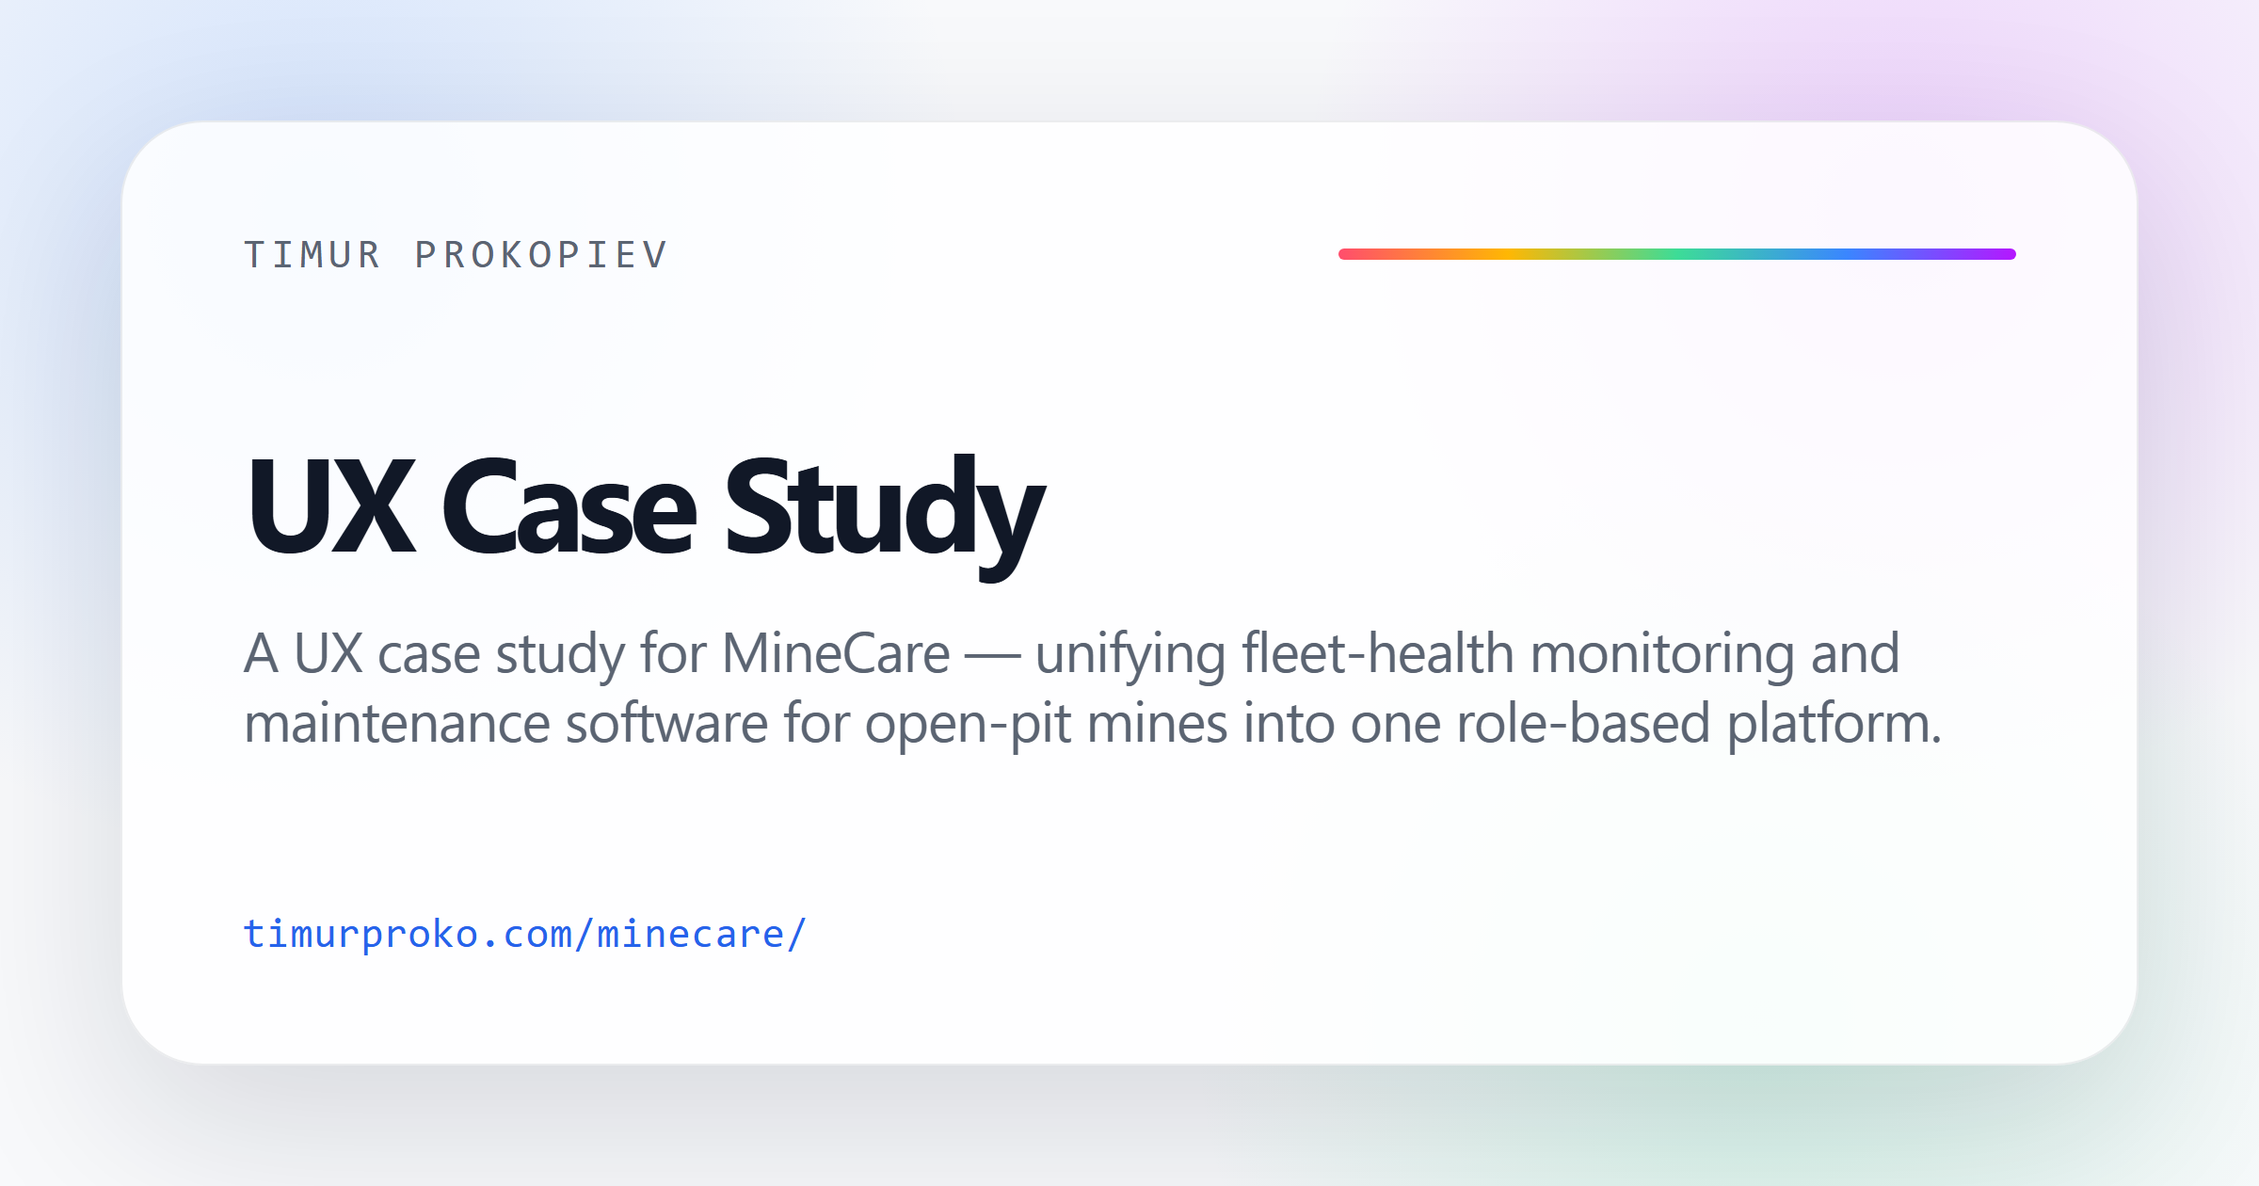
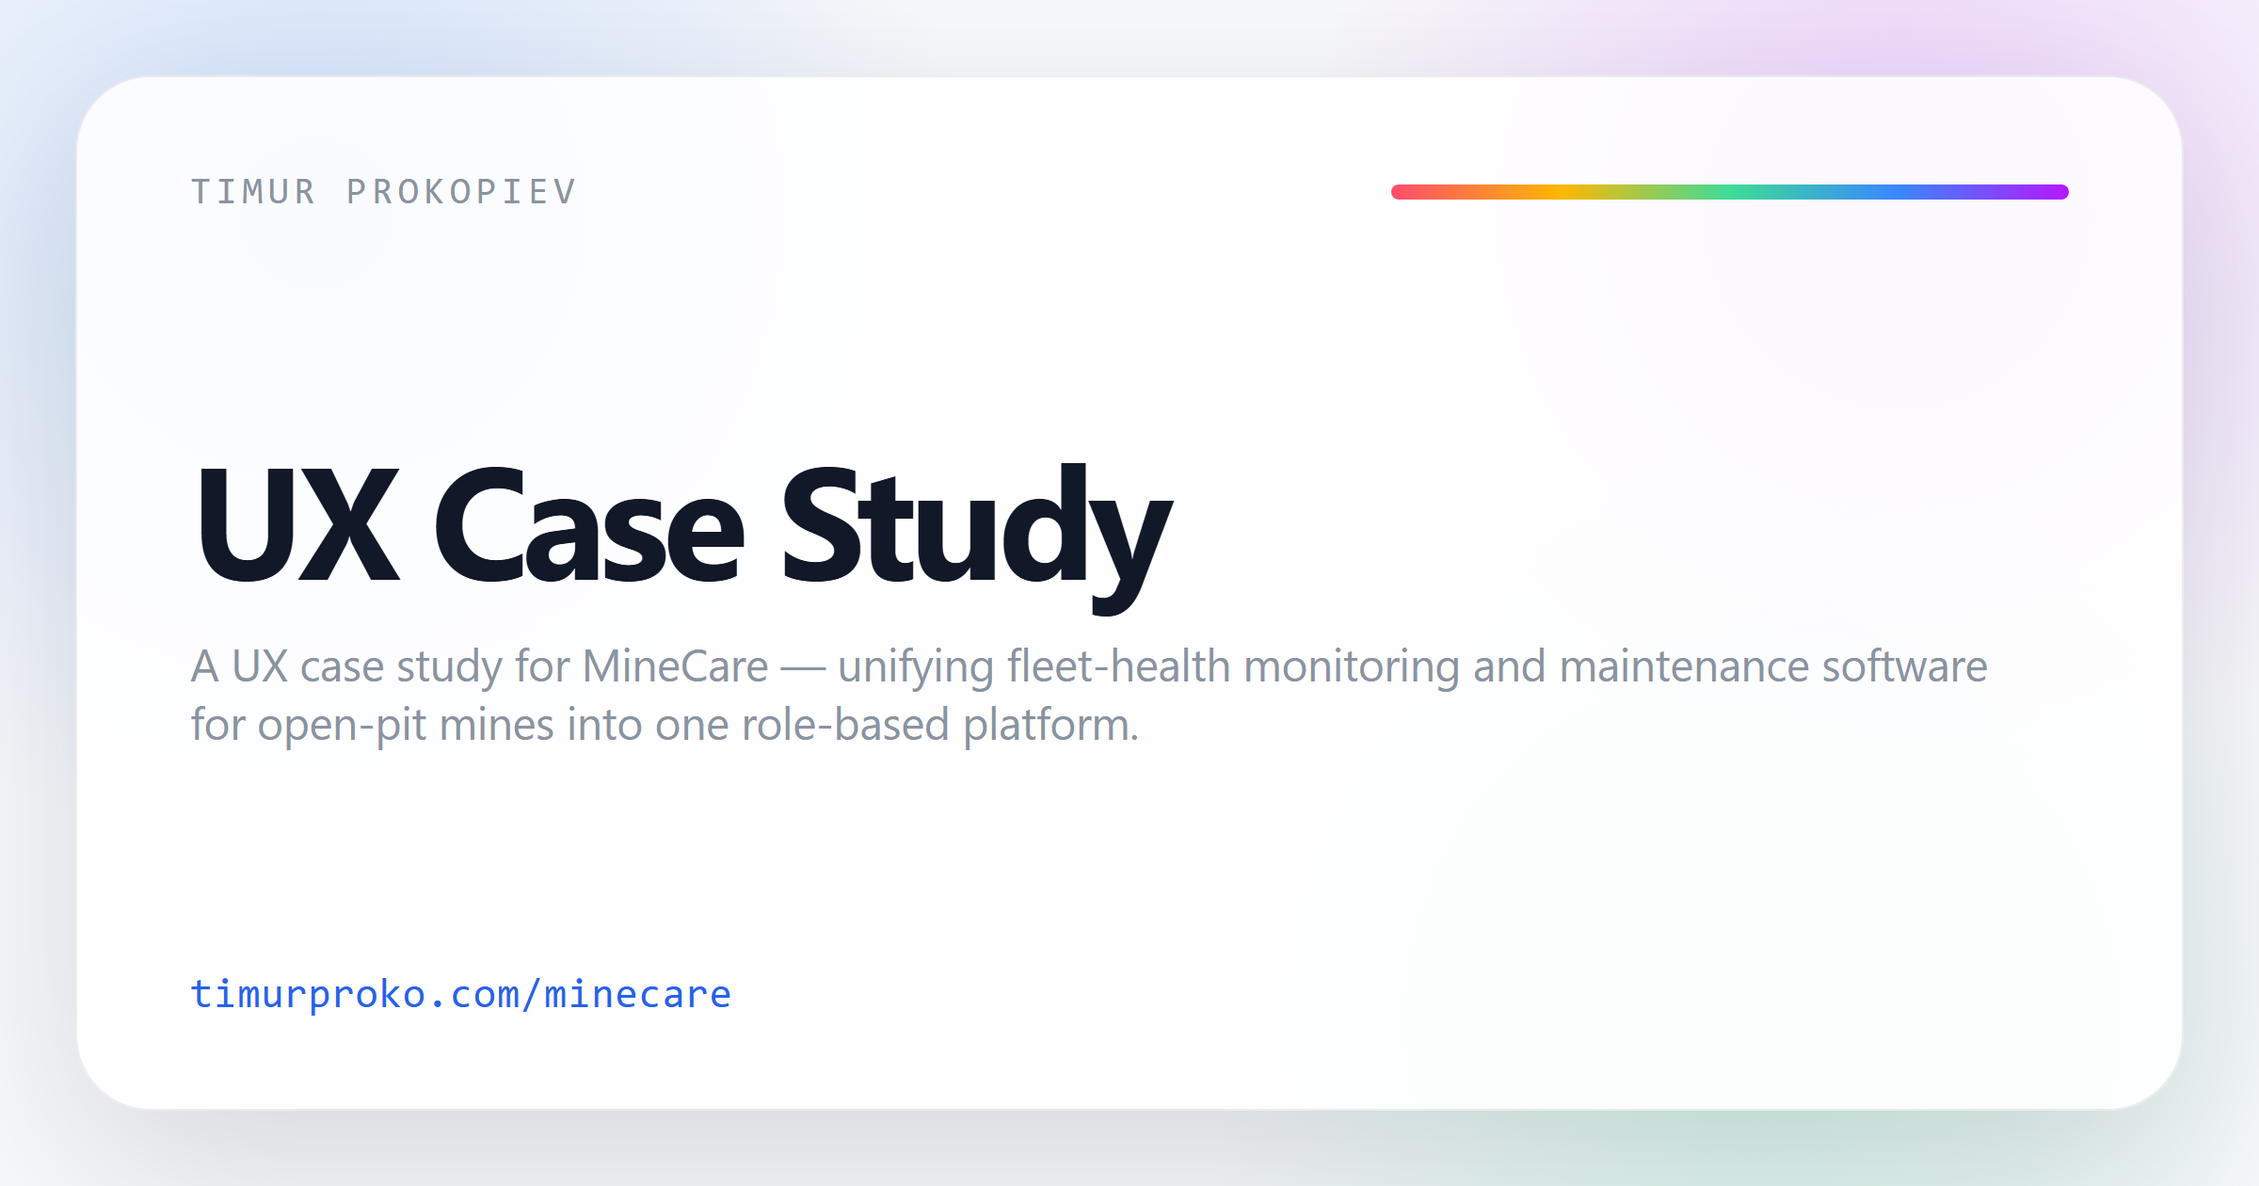
Make social preview titles legible as LinkedIn thumbnails
Enlarge the title, split "Name – Role" titles into a name line over a
smaller role line, and quiet the label, description, and URL so the card
still reads at LinkedIn's ~160px thumbnail size.

diff --git a/src/vital-sports/index.html b/src/vital-sports/index.html
@@ -12,14 +12,14 @@
   <meta property="og:title" content="VITAL Sports — VR Mental Training" />
   <meta property="og:description" content="A VR mental-training app for elite golfers on Meta Quest 3 — guided breathing, immersive tournament footage and visualisation in one short session, with live heart-rate-variability biofeedback." />
   <meta property="og:url" content="https://timurproko.com/vital-sports/" />
-  <meta property="og:image" content="https://timurproko.com/assets/social/vital-sports.png?v=1ac05fd9" />
+  <meta property="og:image" content="https://timurproko.com/assets/social/vital-sports.png?v=38db1c1c" />
   <meta property="og:image:width" content="2400" />
   <meta property="og:image:height" content="1260" />
   <meta property="og:image:alt" content="VITAL Sports — VR Mental Training — social preview" />
   <meta name="twitter:card" content="summary_large_image" />
   <meta name="twitter:title" content="VITAL Sports — VR Mental Training" />
   <meta name="twitter:description" content="A VR mental-training app for elite golfers on Meta Quest 3 — guided breathing, immersive tournament footage and visualisation in one short session, with live heart-rate-variability biofeedback." />
-  <meta name="twitter:image" content="https://timurproko.com/assets/social/vital-sports.png?v=1ac05fd9" />
+  <meta name="twitter:image" content="https://timurproko.com/assets/social/vital-sports.png?v=38db1c1c" />
   <!-- social-preview:end -->
   <title>VITAL Sports — VR Mental Training</title>
   <link rel="icon" href="/favicon.ico" sizes="any">

diff --git a/src/index.html b/src/index.html
@@ -13,14 +13,14 @@
   <meta property="og:title" content="Timur Prokopiev – UX / XR / AI Experience Engineer" />
   <meta property="og:description" content="Unity developer building interactive products and immersive real-time experiences. Focused on XR, 3D graphics, and product-driven design across web, mobile, and AR/VR platforms." />
   <meta property="og:url" content="https://timurproko.com/" />
-  <meta property="og:image" content="https://timurproko.com/assets/social/home.png?v=5d87a7c0" />
+  <meta property="og:image" content="https://timurproko.com/assets/social/home.png?v=85c22f6f" />
   <meta property="og:image:width" content="2400" />
   <meta property="og:image:height" content="1260" />
   <meta property="og:image:alt" content="Timur Prokopiev – UX / XR / AI Experience Engineer — social preview" />
   <meta name="twitter:card" content="summary_large_image" />
   <meta name="twitter:title" content="Timur Prokopiev – UX / XR / AI Experience Engineer" />
   <meta name="twitter:description" content="Unity developer building interactive products and immersive real-time experiences. Focused on XR, 3D graphics, and product-driven design across web, mobile, and AR/VR platforms." />
-  <meta name="twitter:image" content="https://timurproko.com/assets/social/home.png?v=5d87a7c0" />
+  <meta name="twitter:image" content="https://timurproko.com/assets/social/home.png?v=85c22f6f" />
   <!-- social-preview:end -->
   <title>Timur Prokopiev – UX / XR / AI Experience Engineer</title>
   <link rel="icon" href="/favicon.ico" sizes="any">

diff --git a/public/xr-prototypes/heart/index.html b/public/xr-prototypes/heart/index.html
@@ -1,7 +1,6 @@
 <!doctype html>
 <html lang="en">
 <head>
-  
   <!-- social-preview:start -->
   <link rel="canonical" href="https://timurproko.com/xr-prototypes/heart/" />
   <meta property="og:type" content="website" />
@@ -9,14 +8,14 @@
   <meta property="og:title" content="Heart Viewer — WebGL Prototype" />
   <meta property="og:description" content="Heart Viewer — WebGL Prototype" />
   <meta property="og:url" content="https://timurproko.com/xr-prototypes/heart/" />
-  <meta property="og:image" content="https://timurproko.com/assets/social/xr-prototypes-heart.png?v=9f3b4819" />
+  <meta property="og:image" content="https://timurproko.com/assets/social/xr-prototypes-heart.png?v=708a133d" />
   <meta property="og:image:width" content="2400" />
   <meta property="og:image:height" content="1260" />
   <meta property="og:image:alt" content="Heart Viewer — WebGL Prototype — social preview" />
   <meta name="twitter:card" content="summary_large_image" />
   <meta name="twitter:title" content="Heart Viewer — WebGL Prototype" />
   <meta name="twitter:description" content="Heart Viewer — WebGL Prototype" />
-  <meta name="twitter:image" content="https://timurproko.com/assets/social/xr-prototypes-heart.png?v=9f3b4819" />
+  <meta name="twitter:image" content="https://timurproko.com/assets/social/xr-prototypes-heart.png?v=708a133d" />
   <!-- social-preview:end -->
 <meta charset="utf-8" />
   <meta name="viewport" content="width=device-width, initial-scale=1" />

diff --git a/src/untitled-world/index.html b/src/untitled-world/index.html
@@ -12,14 +12,14 @@
   <meta property="og:title" content="Untitled World" />
   <meta property="og:description" content="An augmented-reality art project — wireframe holograms anchored over rooftops, parks, frozen rivers and underpasses, imagining a world where reality itself becomes a piece of art." />
   <meta property="og:url" content="https://timurproko.com/untitled-world/" />
-  <meta property="og:image" content="https://timurproko.com/assets/social/untitled-world.png?v=d9a3a268" />
+  <meta property="og:image" content="https://timurproko.com/assets/social/untitled-world.png?v=71722c99" />
   <meta property="og:image:width" content="2400" />
   <meta property="og:image:height" content="1260" />
   <meta property="og:image:alt" content="Untitled World — social preview" />
   <meta name="twitter:card" content="summary_large_image" />
   <meta name="twitter:title" content="Untitled World" />
   <meta name="twitter:description" content="An augmented-reality art project — wireframe holograms anchored over rooftops, parks, frozen rivers and underpasses, imagining a world where reality itself becomes a piece of art." />
-  <meta name="twitter:image" content="https://timurproko.com/assets/social/untitled-world.png?v=d9a3a268" />
+  <meta name="twitter:image" content="https://timurproko.com/assets/social/untitled-world.png?v=71722c99" />
   <!-- social-preview:end -->
   <title>Untitled World</title>
   <link rel="icon" href="/favicon.ico" sizes="any">

diff --git a/src/vr-for-everybody/index.html b/src/vr-for-everybody/index.html
@@ -12,14 +12,14 @@
   <meta property="og:title" content="VR for Everybody" />
   <meta property="og:description" content="Research of the VR field — 64 years of history, AR/VR/MR theory, headsets and tracking, XR software, education, enterprise use and where the industry is heading." />
   <meta property="og:url" content="https://timurproko.com/vr-for-everybody/" />
-  <meta property="og:image" content="https://timurproko.com/assets/social/vr-for-everybody.png?v=1b203fdf" />
+  <meta property="og:image" content="https://timurproko.com/assets/social/vr-for-everybody.png?v=1f115d14" />
   <meta property="og:image:width" content="2400" />
   <meta property="og:image:height" content="1260" />
   <meta property="og:image:alt" content="VR for Everybody — social preview" />
   <meta name="twitter:card" content="summary_large_image" />
   <meta name="twitter:title" content="VR for Everybody" />
   <meta name="twitter:description" content="Research of the VR field — 64 years of history, AR/VR/MR theory, headsets and tracking, XR software, education, enterprise use and where the industry is heading." />
-  <meta name="twitter:image" content="https://timurproko.com/assets/social/vr-for-everybody.png?v=1b203fdf" />
+  <meta name="twitter:image" content="https://timurproko.com/assets/social/vr-for-everybody.png?v=1f115d14" />
   <!-- social-preview:end -->
   <title>VR for Everybody</title>
   <link rel="icon" href="/favicon.ico" sizes="any">

diff --git a/src/touch-my-heart/index.html b/src/touch-my-heart/index.html
@@ -12,14 +12,14 @@
   <meta property="og:title" content="Touch My Heart XR Experience" />
   <meta property="og:description" content="An XR experience for Magic Leap that takes users deep inside the human heart — realistic anatomy and the sounds of heart disease." />
   <meta property="og:url" content="https://timurproko.com/touch-my-heart/" />
-  <meta property="og:image" content="https://timurproko.com/assets/social/touch-my-heart.png?v=47d185cb" />
+  <meta property="og:image" content="https://timurproko.com/assets/social/touch-my-heart.png?v=0a46483c" />
   <meta property="og:image:width" content="2400" />
   <meta property="og:image:height" content="1260" />
   <meta property="og:image:alt" content="Touch My Heart XR Experience — social preview" />
   <meta name="twitter:card" content="summary_large_image" />
   <meta name="twitter:title" content="Touch My Heart XR Experience" />
   <meta name="twitter:description" content="An XR experience for Magic Leap that takes users deep inside the human heart — realistic anatomy and the sounds of heart disease." />
-  <meta name="twitter:image" content="https://timurproko.com/assets/social/touch-my-heart.png?v=47d185cb" />
+  <meta name="twitter:image" content="https://timurproko.com/assets/social/touch-my-heart.png?v=0a46483c" />
   <!-- social-preview:end -->
   <title>Touch My Heart XR Experience</title>
   <link rel="icon" href="/favicon.ico" sizes="any">

diff --git a/src/a1/index.html b/src/a1/index.html
@@ -12,14 +12,14 @@
   <meta property="og:title" content="a1 — AI Coding Agent" />
   <meta property="og:description" content="An open-source, terminal-native AI coding agent built on Pi — conversational coding, file tools and command execution, with configurable models and extensions." />
   <meta property="og:url" content="https://timurproko.com/a1/" />
-  <meta property="og:image" content="https://timurproko.com/assets/social/a1.png?v=9cad64b0" />
+  <meta property="og:image" content="https://timurproko.com/assets/social/a1.png?v=f6793fcb" />
   <meta property="og:image:width" content="2400" />
   <meta property="og:image:height" content="1260" />
   <meta property="og:image:alt" content="a1 — AI Coding Agent — social preview" />
   <meta name="twitter:card" content="summary_large_image" />
   <meta name="twitter:title" content="a1 — AI Coding Agent" />
   <meta name="twitter:description" content="An open-source, terminal-native AI coding agent built on Pi — conversational coding, file tools and command execution, with configurable models and extensions." />
-  <meta name="twitter:image" content="https://timurproko.com/assets/social/a1.png?v=9cad64b0" />
+  <meta name="twitter:image" content="https://timurproko.com/assets/social/a1.png?v=f6793fcb" />
   <!-- social-preview:end -->
   <title>a1 — AI Coding Agent</title>
   <link rel="icon" href="/favicon.ico" sizes="any">

diff --git a/src/cv/index.html b/src/cv/index.html
@@ -11,14 +11,14 @@
   <meta property="og:title" content="Timur Prokopiev – UX / XR / AI Experience Engineer" />
   <meta property="og:description" content="Building interactive experiences with a focus on usability, performance, and real-time systems." />
   <meta property="og:url" content="https://timurproko.com/cv/" />
-  <meta property="og:image" content="https://timurproko.com/assets/social/cv.png?v=1730efe5" />
+  <meta property="og:image" content="https://timurproko.com/assets/social/cv.png?v=c150fa79" />
   <meta property="og:image:width" content="2400" />
   <meta property="og:image:height" content="1260" />
   <meta property="og:image:alt" content="Timur Prokopiev – UX / XR / AI Experience Engineer — social preview" />
   <meta name="twitter:card" content="summary_large_image" />
   <meta name="twitter:title" content="Timur Prokopiev – UX / XR / AI Experience Engineer" />
   <meta name="twitter:description" content="Building interactive experiences with a focus on usability, performance, and real-time systems." />
-  <meta name="twitter:image" content="https://timurproko.com/assets/social/cv.png?v=1730efe5" />
+  <meta name="twitter:image" content="https://timurproko.com/assets/social/cv.png?v=c150fa79" />
   <!-- social-preview:end -->
   <title>Timur Prokopiev – UX / XR / AI Experience Engineer</title>
   <link rel="icon" href="/favicon.ico" sizes="any">

diff --git a/src/xr-prototypes/index.html b/src/xr-prototypes/index.html
@@ -12,14 +12,14 @@
   <meta property="og:title" content="XR Prototypes" />
   <meta property="og:description" content="Rapid XR prototypes for Meta Quest — physics, generative music, AI vision and spatial health education — plus a playable WebGL heart viewer." />
   <meta property="og:url" content="https://timurproko.com/xr-prototypes/" />
-  <meta property="og:image" content="https://timurproko.com/assets/social/xr-prototypes.png?v=c5de994b" />
+  <meta property="og:image" content="https://timurproko.com/assets/social/xr-prototypes.png?v=20b0d07c" />
   <meta property="og:image:width" content="2400" />
   <meta property="og:image:height" content="1260" />
   <meta property="og:image:alt" content="XR Prototypes — social preview" />
   <meta name="twitter:card" content="summary_large_image" />
   <meta name="twitter:title" content="XR Prototypes" />
   <meta name="twitter:description" content="Rapid XR prototypes for Meta Quest — physics, generative music, AI vision and spatial health education — plus a playable WebGL heart viewer." />
-  <meta name="twitter:image" content="https://timurproko.com/assets/social/xr-prototypes.png?v=c5de994b" />
+  <meta name="twitter:image" content="https://timurproko.com/assets/social/xr-prototypes.png?v=20b0d07c" />
   <!-- social-preview:end -->
   <title>XR Prototypes</title>
   <link rel="icon" href="/favicon.ico" sizes="any">

diff --git a/src/avatars/index.html b/src/avatars/index.html
@@ -12,14 +12,14 @@
   <meta property="og:title" content="Avatar Creation Pipeline" />
   <meta property="og:description" content="Design overview of the avatar creation pipeline — from body and face capture to real-time AI-driven animation and rendering." />
   <meta property="og:url" content="https://timurproko.com/avatars/" />
-  <meta property="og:image" content="https://timurproko.com/assets/social/avatars.png?v=36b03005" />
+  <meta property="og:image" content="https://timurproko.com/assets/social/avatars.png?v=c5388deb" />
   <meta property="og:image:width" content="2400" />
   <meta property="og:image:height" content="1260" />
   <meta property="og:image:alt" content="Avatar Creation Pipeline — social preview" />
   <meta name="twitter:card" content="summary_large_image" />
   <meta name="twitter:title" content="Avatar Creation Pipeline" />
   <meta name="twitter:description" content="Design overview of the avatar creation pipeline — from body and face capture to real-time AI-driven animation and rendering." />
-  <meta name="twitter:image" content="https://timurproko.com/assets/social/avatars.png?v=36b03005" />
+  <meta name="twitter:image" content="https://timurproko.com/assets/social/avatars.png?v=c5388deb" />
   <!-- social-preview:end -->
   <title>Avatar Creation Pipeline</title>
   <link rel="icon" href="/favicon.ico" sizes="any">

diff --git a/src/minecare/index.html b/src/minecare/index.html
@@ -12,14 +12,14 @@
   <meta property="og:title" content="UX Case Study" />
   <meta property="og:description" content="A UX case study for MineCare — unifying fleet-health monitoring and maintenance software for open-pit mines into one role-based platform." />
   <meta property="og:url" content="https://timurproko.com/minecare/" />
-  <meta property="og:image" content="https://timurproko.com/assets/social/minecare.png?v=2931b078" />
+  <meta property="og:image" content="https://timurproko.com/assets/social/minecare.png?v=e5914b4a" />
   <meta property="og:image:width" content="2400" />
   <meta property="og:image:height" content="1260" />
   <meta property="og:image:alt" content="UX Case Study — social preview" />
   <meta name="twitter:card" content="summary_large_image" />
   <meta name="twitter:title" content="UX Case Study" />
   <meta name="twitter:description" content="A UX case study for MineCare — unifying fleet-health monitoring and maintenance software for open-pit mines into one role-based platform." />
-  <meta name="twitter:image" content="https://timurproko.com/assets/social/minecare.png?v=2931b078" />
+  <meta name="twitter:image" content="https://timurproko.com/assets/social/minecare.png?v=e5914b4a" />
   <!-- social-preview:end -->
   <title>UX Case Study</title>
   <link rel="icon" href="/favicon.ico" sizes="any">

diff --git a/src/calmxr/index.html b/src/calmxr/index.html
@@ -12,14 +12,14 @@
   <meta property="og:title" content="CalmXR" />
   <meta property="og:description" content="A calm-tech experience for smart glasses — short guided sessions with spatial audio, gentle visuals and simple focus exercises, prototyped on Meta Quest 3." />
   <meta property="og:url" content="https://timurproko.com/calmxr/" />
-  <meta property="og:image" content="https://timurproko.com/assets/social/calmxr.png?v=5ac25c5a" />
+  <meta property="og:image" content="https://timurproko.com/assets/social/calmxr.png?v=0cc5e6b2" />
   <meta property="og:image:width" content="2400" />
   <meta property="og:image:height" content="1260" />
   <meta property="og:image:alt" content="CalmXR — social preview" />
   <meta name="twitter:card" content="summary_large_image" />
   <meta name="twitter:title" content="CalmXR" />
   <meta name="twitter:description" content="A calm-tech experience for smart glasses — short guided sessions with spatial audio, gentle visuals and simple focus exercises, prototyped on Meta Quest 3." />
-  <meta name="twitter:image" content="https://timurproko.com/assets/social/calmxr.png?v=5ac25c5a" />
+  <meta name="twitter:image" content="https://timurproko.com/assets/social/calmxr.png?v=0cc5e6b2" />
   <!-- social-preview:end -->
   <title>CalmXR</title>
   <link rel="icon" href="/favicon.ico" sizes="any">
